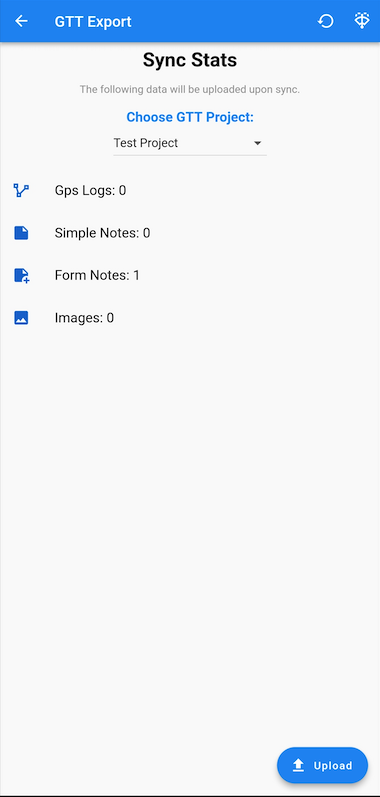
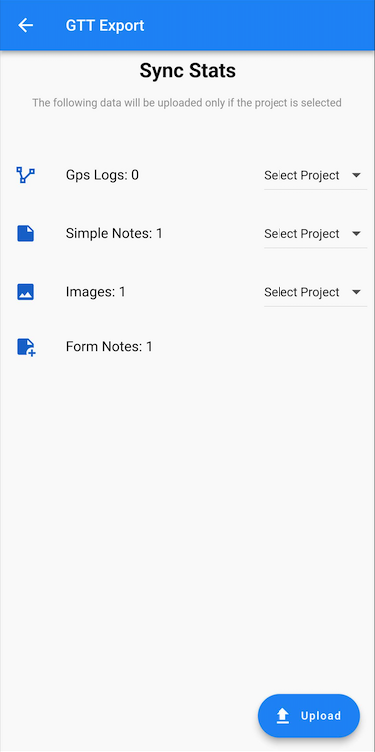
update getting started md

diff --git a/doc/getting-started.md b/doc/getting-started.md
@@ -21,6 +21,13 @@ To get projects connected with SMASH mobile application make sure to enable the 
 
 ![Project Modules](project_modules.png)
 
+
+Set the trackers and default subject for the notes or logs in plugin setting of **Redmine GTT SMASH** so that the issue can be created based on the setting.
+
+![GTT SMASH Setting](gtt_smash_setting.png)
+
+
+
 ## Connect SMASH mobile application to Redmine
 
 ### Connect Redmine account
@@ -35,7 +42,7 @@ In SMASH mobile application top menu go to **Export** or **Import**. Click on th
 
 ### Import Redmine projects
 
-In menu again go to **Import** &#8594; **GTT** &#8594; Select Project &#8594; Click **Import**
+In menu again go to **Import** &#8594; **GTT** &#8594; Click **Import**
 
 ![GTT Import](gtt_import.png)
 
@@ -53,7 +60,7 @@ Follow these steps to upload your notes as issues or synchronize changes:
 
 1. Go to top menu **Export** &#8594; **GTT**
 2. It will inidicate if there is new data to be uploaded
-3. Choose a project for creating the issue(s)
+3. Choose a project for each note or GPS log to create the issue(s) *(unselected will be ignored)*
 4. Click on **Upload** to export the issue(s)
 
 ![GTT Export](gtt_export.png)
